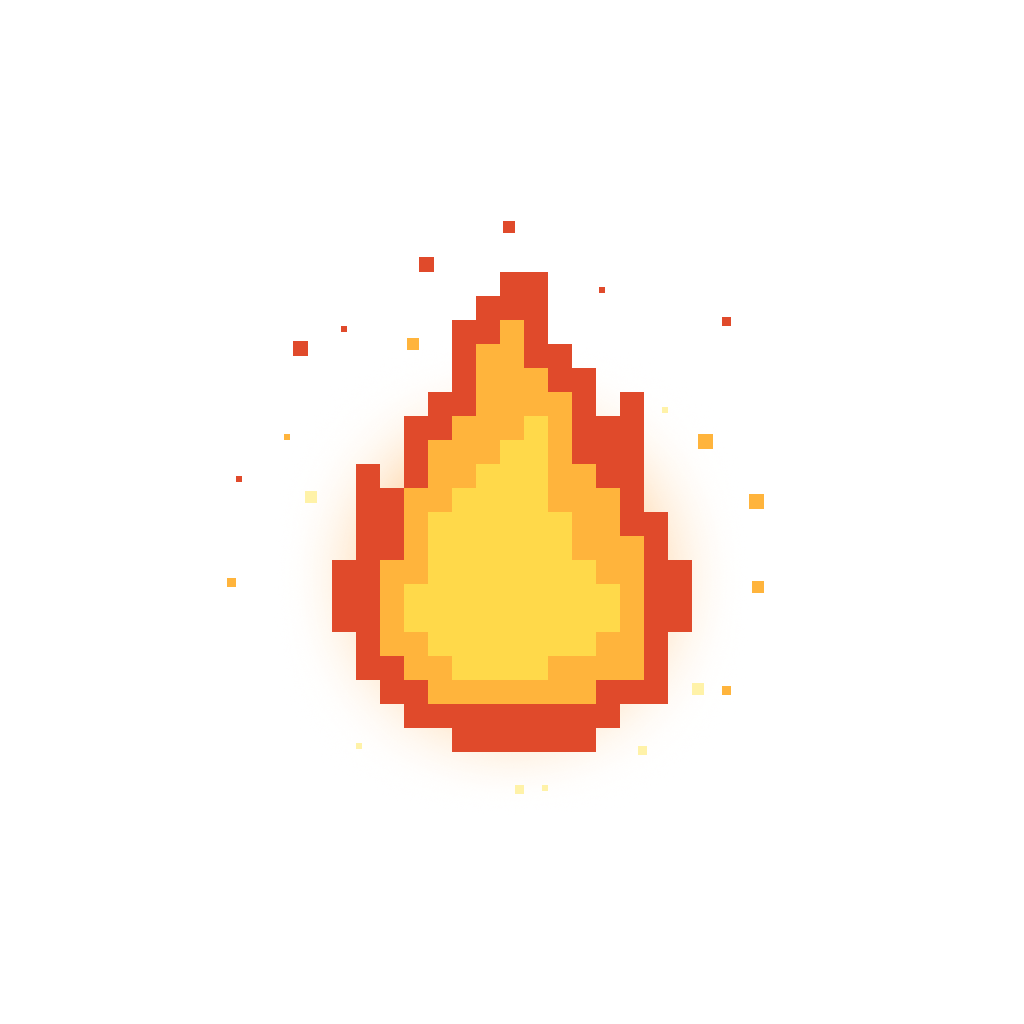
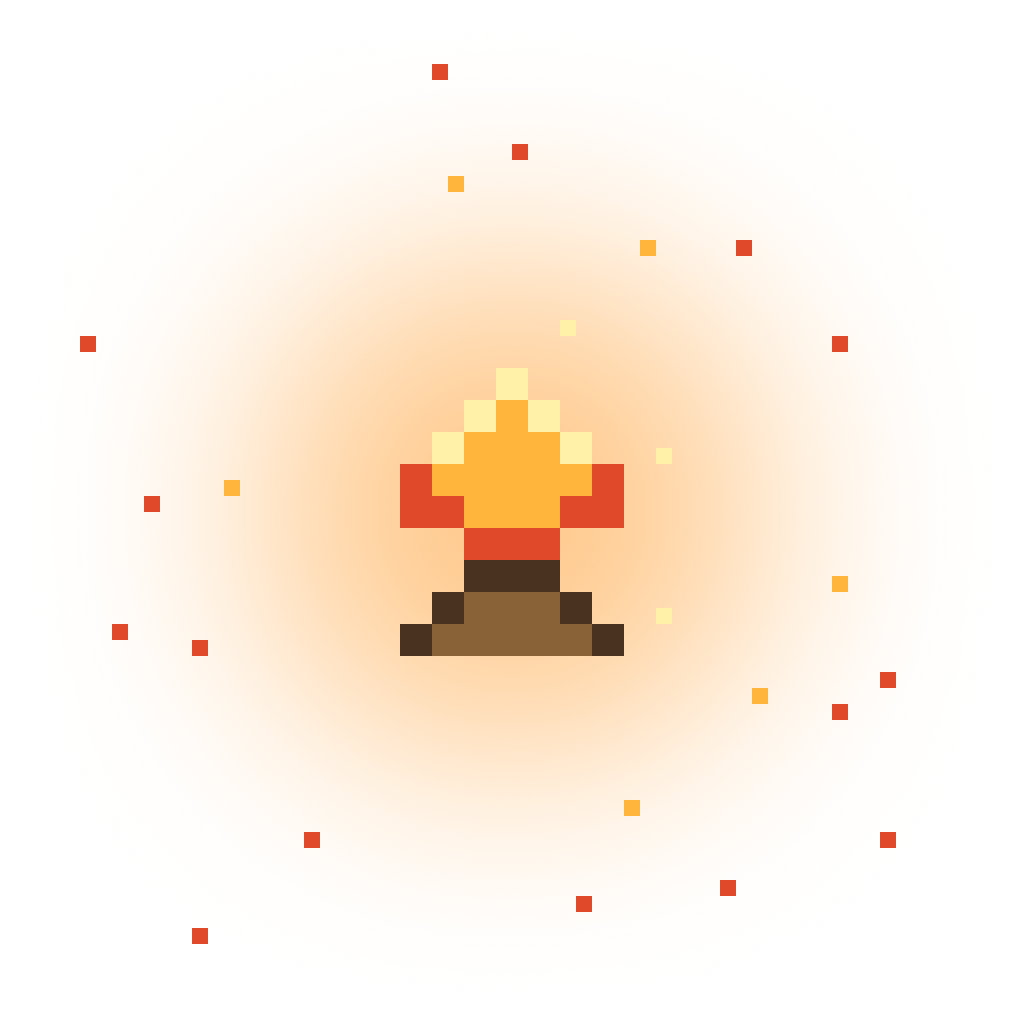
feat: 앱 아이콘을 정지 모닥불 그림으로 교체 (#47)

diff --git a/DESIGN.md b/DESIGN.md
@@ -2,7 +2,7 @@
 id: tadaktadak
 name: "타닥타닥"
 figma: "https://www.figma.com/design/qmtzKbnYAsTAXvn0CBbfo2/tadaktadak"
-updated: 2026-09-05
+updated: 2026-09-12
 category: personal-tool
 bundle_id: "com.boriguri.tadaktadak"
 primary_color: "#ffb43c"
